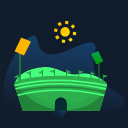
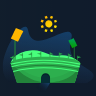
Fix round 2 (owner): stadium tile 48px unified + fadeOnly crossfade + poster re-capture, priority Lottie slots, slide 0.40s

diff --git a/src/components/common/StadiumLottieAnimation.tsx b/src/components/common/StadiumLottieAnimation.tsx
@@ -5,13 +5,20 @@ import type { AnimationItem } from 'lottie-web';
 export interface StadiumLottieAnimationProps {
   /** Accent color to tint the stadium shapes (defaults to Stadium Green #34C759) */
   accentColor?: string;
-  size?: 'xs' | 'sm' | 'md' | 'lg' | 'hero';
+  size?: 'xs' | 'sm' | 'md' | 'lg' | 'hero' | 'tile';
   className?: string;
   loop?: boolean;
   autoplay?: boolean;
   animateGlow?: boolean;
   /** Fired once the animation is loaded and rendering (image-entrance programme: the Home hero crossfades from a static poster on this signal). */
   onReady?: () => void;
+  /**
+   * Start immediately on mount instead of waiting for an idle
+   * slot. For above-the-fold slot icons (New Match home/away)
+   * the idle deferral reads as a late-loading icon; ambient
+   * instances keep the deferral.
+   */
+  priority?: boolean;
 }
 
 /**
@@ -86,6 +93,7 @@ const SIZE_MAP = {
   md: 'w-8 h-8',
   lg: 'w-10 h-10',
   hero: 'w-16 h-16 sm:w-20 sm:h-20 md:w-24 md:h-24',
+  tile: 'w-12 h-12',
 };
 
 /**
@@ -105,6 +113,7 @@ export const StadiumLottieAnimation = React.memo(
     autoplay = true,
     animateGlow = true,
     onReady,
+    priority = false,
   }: StadiumLottieAnimationProps) {
     const containerRef = useRef<HTMLDivElement | null>(null);
     const onReadyRef = useRef(onReady);
@@ -180,7 +189,9 @@ export const StadiumLottieAnimation = React.memo(
         requestIdleCallback?: (cb: () => void, options?: { timeout: number }) => number;
         cancelIdleCallback?: (handle: number) => void;
       };
-      if (typeof idleWin.requestIdleCallback === 'function') {
+      if (priority) {
+        start();
+      } else if (typeof idleWin.requestIdleCallback === 'function') {
         idleHandle = idleWin.requestIdleCallback(start, { timeout: 800 });
       } else {
         timer = setTimeout(start, 350);
@@ -204,7 +215,7 @@ export const StadiumLottieAnimation = React.memo(
           container.innerHTML = '';
         }
       };
-    }, [accentColor, loop, autoplay]);
+    }, [accentColor, loop, autoplay, priority]);
 
     const sizeClass = SIZE_MAP[size] || SIZE_MAP.md;
 

diff --git a/src/app/matches/new/page.tsx b/src/app/matches/new/page.tsx
@@ -614,7 +614,7 @@ export default function NewMatchPage() {
                   required
                   placeholder={isChaseMode ? tr('newm_chasing_team', 'Chasing Team (Batting)') : tr('newm_home_team', 'HOME TEAM')}
                   inputPlaceholder={isChaseMode ? tr('newm_chasing_team', 'Chasing Team (Batting)') : tr('newm_home_team', 'HOME TEAM')}
-                  icon={<TeamBadgeIcon type="home" size="sm" />}
+                  icon={<TeamBadgeIcon type="home" size="sm" priority />}
                   searchable={savedTeams.length > 5}
                   emptyMessage={tr('newm_no_saved_teams', 'No saved teams. Type any team name above.')}
                   elevated
@@ -651,7 +651,7 @@ export default function NewMatchPage() {
                   required
                   placeholder={isChaseMode ? tr('newm_defending_team', 'Defending Team (Bowling)') : tr('newm_away_team', 'AWAY TEAM')}
                   inputPlaceholder={isChaseMode ? tr('newm_defending_team', 'Defending Team (Bowling)') : tr('newm_away_team', 'AWAY TEAM')}
-                  icon={<TeamBadgeIcon type="away" size="sm" />}
+                  icon={<TeamBadgeIcon type="away" size="sm" priority />}
                   searchable={savedTeams.length > 5}
                   emptyMessage={tr('newm_no_saved_teams', 'No saved teams. Type any team name above.')}
                   elevated

diff --git a/src/components/common/PlaneLottieAnimation.tsx b/src/components/common/PlaneLottieAnimation.tsx
@@ -10,6 +10,8 @@ export interface PlaneLottieAnimationProps {
   loop?: boolean;
   autoplay?: boolean;
   animateGlow?: boolean;
+  /** Start immediately on mount instead of waiting for an idle slot (parity with StadiumLottieAnimation). */
+  priority?: boolean;
 }
 
 const SIZE_MAP = {
@@ -33,6 +35,7 @@ export const PlaneLottieAnimation = React.memo(
     loop = true,
     autoplay = true,
     animateGlow = true,
+    priority = false,
   }: PlaneLottieAnimationProps) {
     const containerRef = useRef<HTMLDivElement | null>(null);
 
@@ -102,7 +105,9 @@ export const PlaneLottieAnimation = React.memo(
         requestIdleCallback?: (cb: () => void, options?: { timeout: number }) => number;
         cancelIdleCallback?: (handle: number) => void;
       };
-      if (typeof idleWin.requestIdleCallback === 'function') {
+      if (priority) {
+        start();
+      } else if (typeof idleWin.requestIdleCallback === 'function') {
         idleHandle = idleWin.requestIdleCallback(start, { timeout: 800 });
       } else {
         timer = setTimeout(start, 350);
@@ -126,7 +131,7 @@ export const PlaneLottieAnimation = React.memo(
           container.innerHTML = '';
         }
       };
-    }, [loop, autoplay]);
+    }, [loop, autoplay, priority]);
 
     const sizeClass = SIZE_MAP[size] || SIZE_MAP.md;
 

diff --git a/src/components/motion/MediaReveal.tsx b/src/components/motion/MediaReveal.tsx
@@ -134,10 +134,16 @@ interface MediaRevealProps {
   ready: boolean;
   poster: string;
   className?: string;
+  /**
+   * Opacity-only child entrance. For live/canvas content (the
+   * stadium Lottie) a scale on the child reads as the artwork
+   * itself growing/shrinking — fadeOnly crossfades purely.
+   */
+  fadeOnly?: boolean;
   children: ReactNode;
 }
 
-export function MediaReveal({ ready, poster, className, children }: MediaRevealProps) {
+export function MediaReveal({ ready, poster, className, fadeOnly = false, children }: MediaRevealProps) {
   const reduce = useReducedMotion();
   const [posterGone, setPosterGone] = useState(false);
 
@@ -148,8 +154,8 @@ export function MediaReveal({ ready, poster, className, children }: MediaRevealP
   return (
     <div className={`relative ${className ?? ''}`}>
       <motion.div
-        initial={{ opacity: 0, scale: 0.97 }}
-        animate={ready ? { opacity: 1, scale: 1 } : { opacity: 0, scale: 0.97 }}
+        initial={{ opacity: 0, scale: fadeOnly ? 1 : 0.97 }}
+        animate={ready ? { opacity: 1, scale: 1 } : { opacity: 0, scale: fadeOnly ? 1 : 0.97 }}
         transition={{ duration: 0.28, ease: EASINGS.ios }}
       >
         {children}

diff --git a/src/components/common/TeamBadgeIcon.tsx b/src/components/common/TeamBadgeIcon.tsx
@@ -12,6 +12,8 @@ export interface TeamBadgeIconProps {
   animate?: boolean;
   accentColor?: string;
   variant?: 'rounded' | 'circle';
+  /** Forwarded to the Lottie: start immediately (slot icons above the fold). */
+  priority?: boolean;
 }
 
 function TeamBadgeIconComponent({
@@ -22,6 +24,7 @@ function TeamBadgeIconComponent({
   animate = true,
   accentColor,
   variant = 'rounded',
+  priority = false,
 }: TeamBadgeIconProps) {
   const isHome = type === 'home' || type === 'host' || type === 'running' || type === 'current';
 
@@ -61,12 +64,14 @@ function TeamBadgeIconComponent({
               size={size}
               accentColor={accentColor || '#34C759'}
               className="w-full h-full"
+              priority={priority}
             />
           ) : (
             <PlaneLottieAnimation
               size={size}
               accentColor={accentColor || '#3B82F6'}
               className="w-full h-full"
+              priority={priority}
             />
           )
         ) : isHome ? (

diff --git a/src/app/page.tsx b/src/app/page.tsx
@@ -150,8 +150,8 @@ export default function HomePage() {
           <div className="flex flex-col sm:flex-row items-center sm:items-stretch justify-between gap-4 relative z-10">
             <div className="flex items-center gap-3.5 sm:gap-4 min-w-0 w-full sm:w-auto text-left">
               <div className="bg-slate-900/80 border border-emerald-500/30 rounded-2xl p-1.5 shrink-0 flex items-center justify-center shadow-md shadow-emerald-500/10">
-                <MediaReveal ready={stadiumReady} poster="/assets/illustrations/stadium_poster.png">
-                  <StadiumLottieAnimation size="hero" accentColor="#34C759" onReady={() => setStadiumReady(true)} />
+                <MediaReveal ready={stadiumReady} poster="/assets/illustrations/stadium_poster.png" fadeOnly className="h-12 w-12 shrink-0">
+                  <StadiumLottieAnimation size="tile" accentColor="#34C759" onReady={() => setStadiumReady(true)} />
                 </MediaReveal>
               </div>
               <div className="min-w-0">

diff --git a/src/lib/animations.ts b/src/lib/animations.ts
@@ -73,10 +73,11 @@ const pageDirectionTransition = (info: NavTransitionInfo) => {
     case 'push':
     case 'pop':
     case 'tab':
-      // 0.35 s (owner polish, 2026-11-11): 0.26 read as rushed
-      // on device; 0.35 is the iOS push standard and lets the
-      // slide-over actually register as motion.
-      return { duration: 0.35, ease: EASINGS.ios };
+      // 0.40 s (owner polish round 2, 2026-11-12): 0.26 read as
+      // rushed, 0.35 closer but still abrupt on device — 0.40
+      // with the iOS curve lets the slide breathe without
+      // feeling sluggish.
+      return { duration: 0.40, ease: EASINGS.ios };
     default:
       return { duration: 0.15, ease: EASINGS.easeOut };
   }

diff --git a/MOTION_UNIFICATION_REPORT.md b/MOTION_UNIFICATION_REPORT.md
@@ -153,3 +153,40 @@ too fast.
 
 Gates: unit 1694/1694, tsc 0, lint 0, build PASS, offline
 e2e 10/10 on the v2.2.8 SW.
+
+---
+
+## Addendum — owner fix round 2 (2026-11-12)
+
+Owner's verdict on the polish build: (1) the stadium in the
+Home broadcast box grows then shrinks on open; (2) the New
+Match home (stadium) / away (plane) slot icons load late;
+(3) page slides should be a little longer and smoother.
+
+1. **Stadium size jump — root cause found by frame
+   comparison.** Three different sizes were stacked: the card
+   slot (and the dynamic-import placeholder) is 48 px, the
+   animation component was `size="hero"` = 64 px (its canvas
+   sized 64 CSS px inside the 48 px box — a permanently
+   zoomed/cropper render), and the poster had been captured
+   at yet another scale, so poster and live framed the stadium
+   differently and the crossfade read as grow/shrink. Fixes:
+   new `tile` size (w-12 h-12) used on Home, MediaReveal gets
+   an explicit h-12 w-12 box + a `fadeOnly` mode (no child
+   scale over a live canvas), and the poster was re-captured
+   from the fixed build at the exact settled box. Frame check
+   after: poster frame and live frame are identical in
+   framing. (Note: the poster URL is unchanged, so existing
+   clients pick the new poster up via the /assets SWR
+   revalidation; the canvas sizing fix itself ships in JS.)
+2. **Slot icons late.** Both Lotties idle-deferred their
+   bootstrap (requestIdleCallback up to 800 ms) — right for
+   ambient art, wrong for above-the-fold slot icons. New
+   `priority` prop on Stadium/Plane Lottie (start on mount),
+   forwarded through TeamBadgeIcon and set on the two New
+   Match select slots only.
+3. **Slide pace.** Page slide-over 0.35 s → 0.40 s (premium
+   range already covers 300–400 ms at the boundary).
+
+Gates: unit 1694/1694, tsc 0, lint 0, build PASS, navqa
+16/16, popprobe stacked 0.
